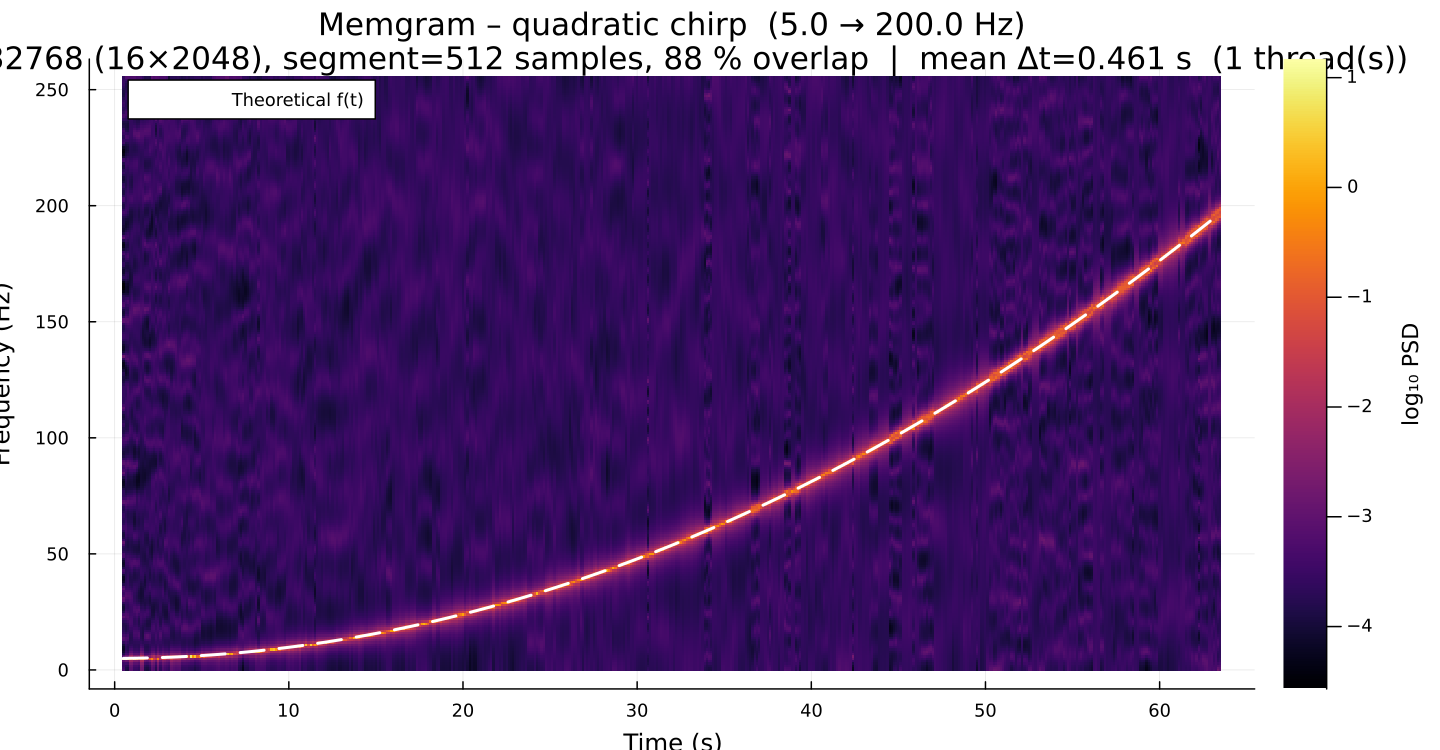
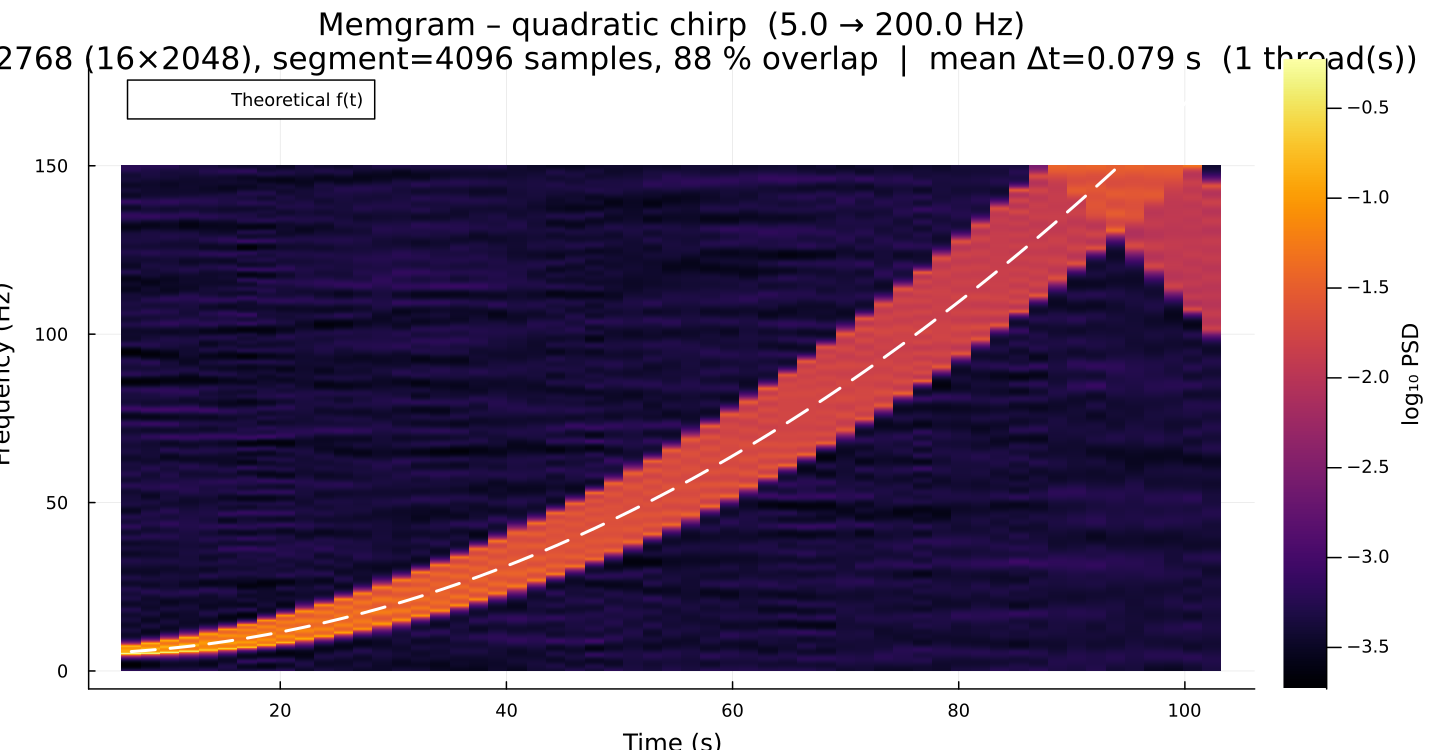
Push assets

diff --git a/README.md b/README.md
@@ -192,6 +192,30 @@ Generate LIGO-like noise from the O3 design PSD:
 julia examples/generate_white_noise.jl --p 300 --t 32 --srate 4096
 ```
 
+## Building the documentation
+
+The documentation is built with [Documenter.jl](https://documenter.juliadocs.org)
+from `docs/`, the same way as in CI.  From the repository root, set up the
+docs environment once (this develops the local package into it):
+
+```sh
+julia --project=docs -e 'using Pkg; Pkg.develop(PackageSpec(path=pwd())); Pkg.instantiate()'
+```
+
+Then build:
+
+```sh
+julia --project=docs docs/make.jl
+```
+
+Open `docs/build/index.html` in a browser.  Outside CI the deployment step
+is skipped, so nothing is pushed.
+
+`docs/make.jl` copies the example plots from `examples/*.png` into
+`docs/src/assets/`, overwriting the copies there.  Run the corresponding
+example scripts first if you want up-to-date figures, and only commit the
+copied images if you mean to update them.
+
 ## References
 
 - Original Burg's algorithm: [J.P. Burg – Maximum Entropy Spectral Analysis](http://sepwww.stanford.edu/data/media/public/oldreports/sep06/)
